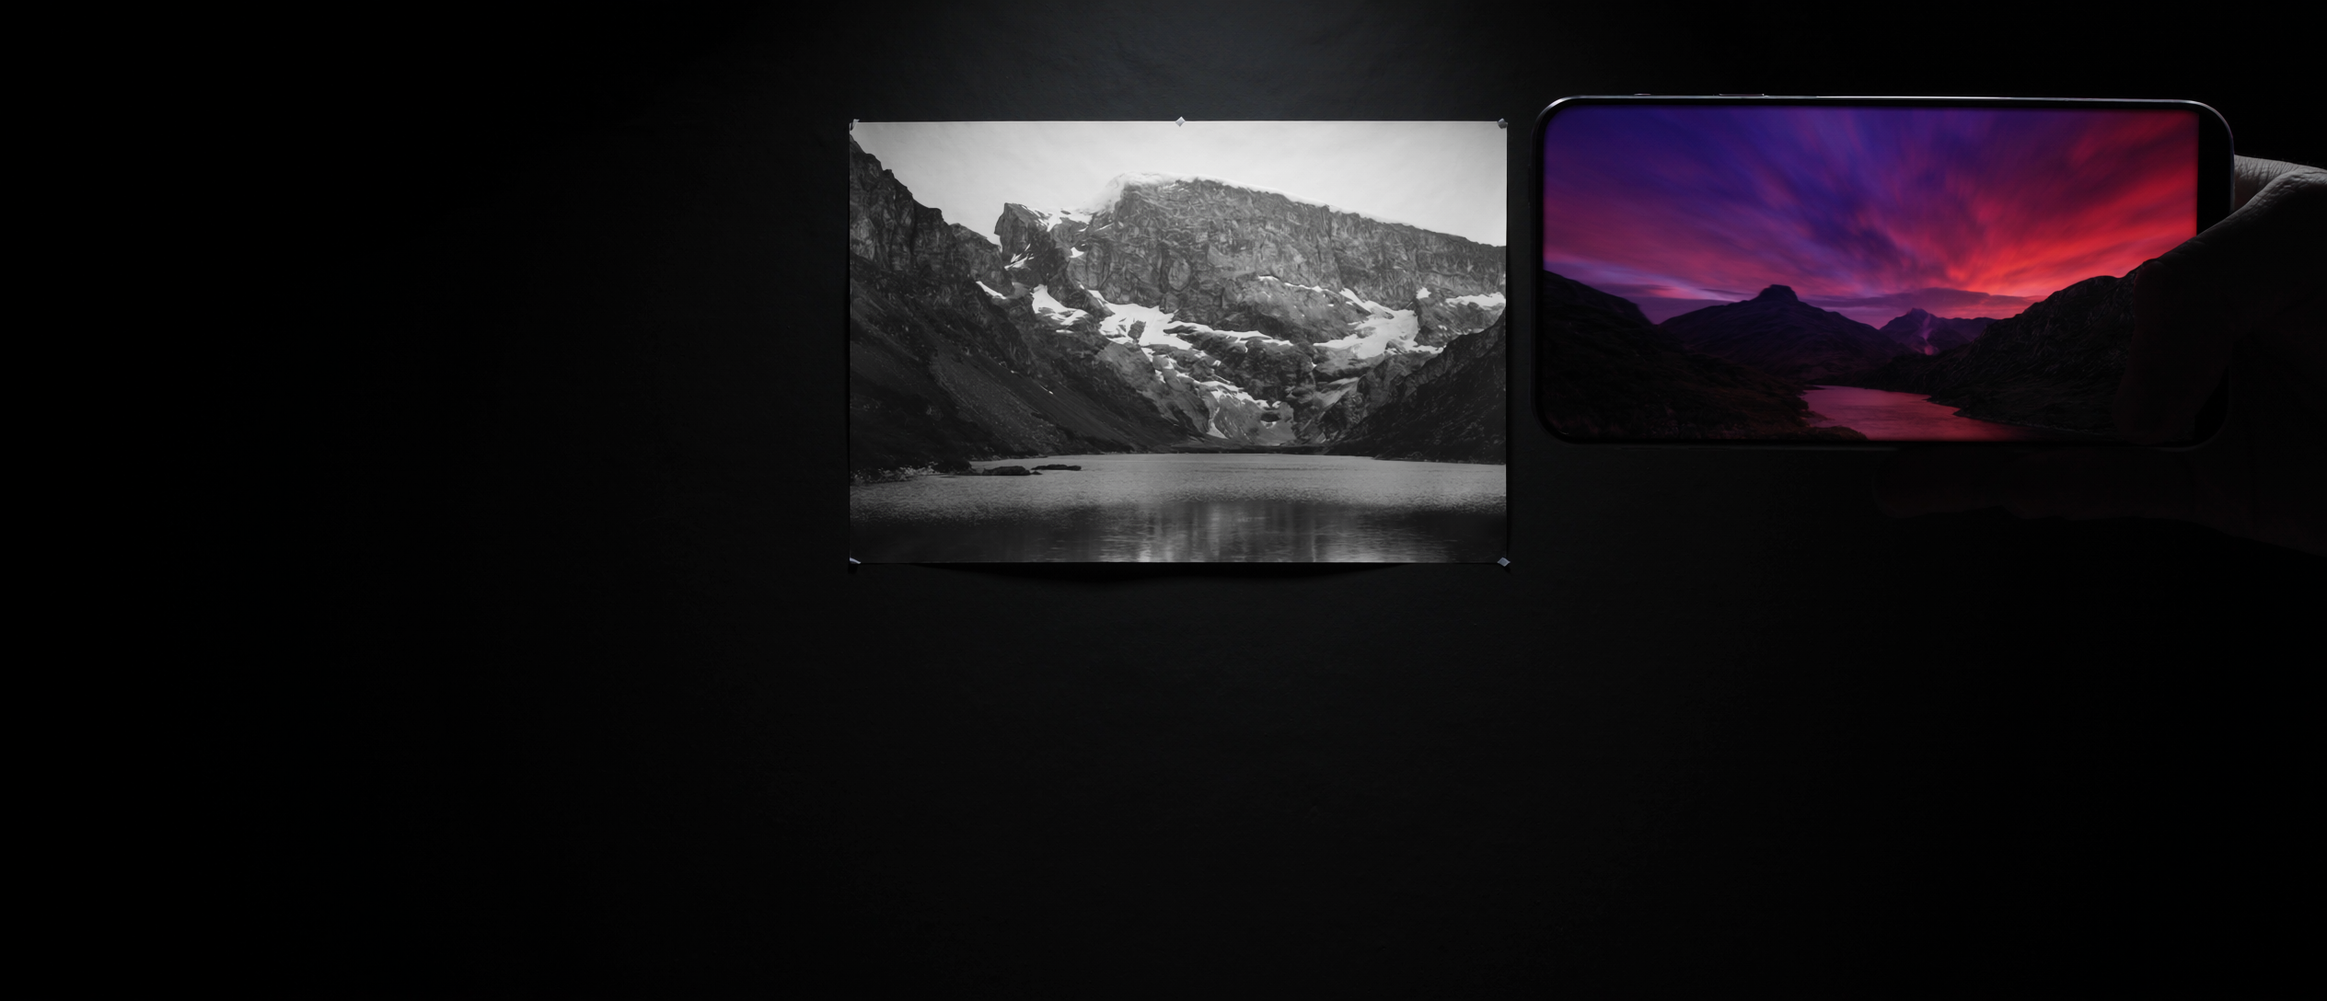
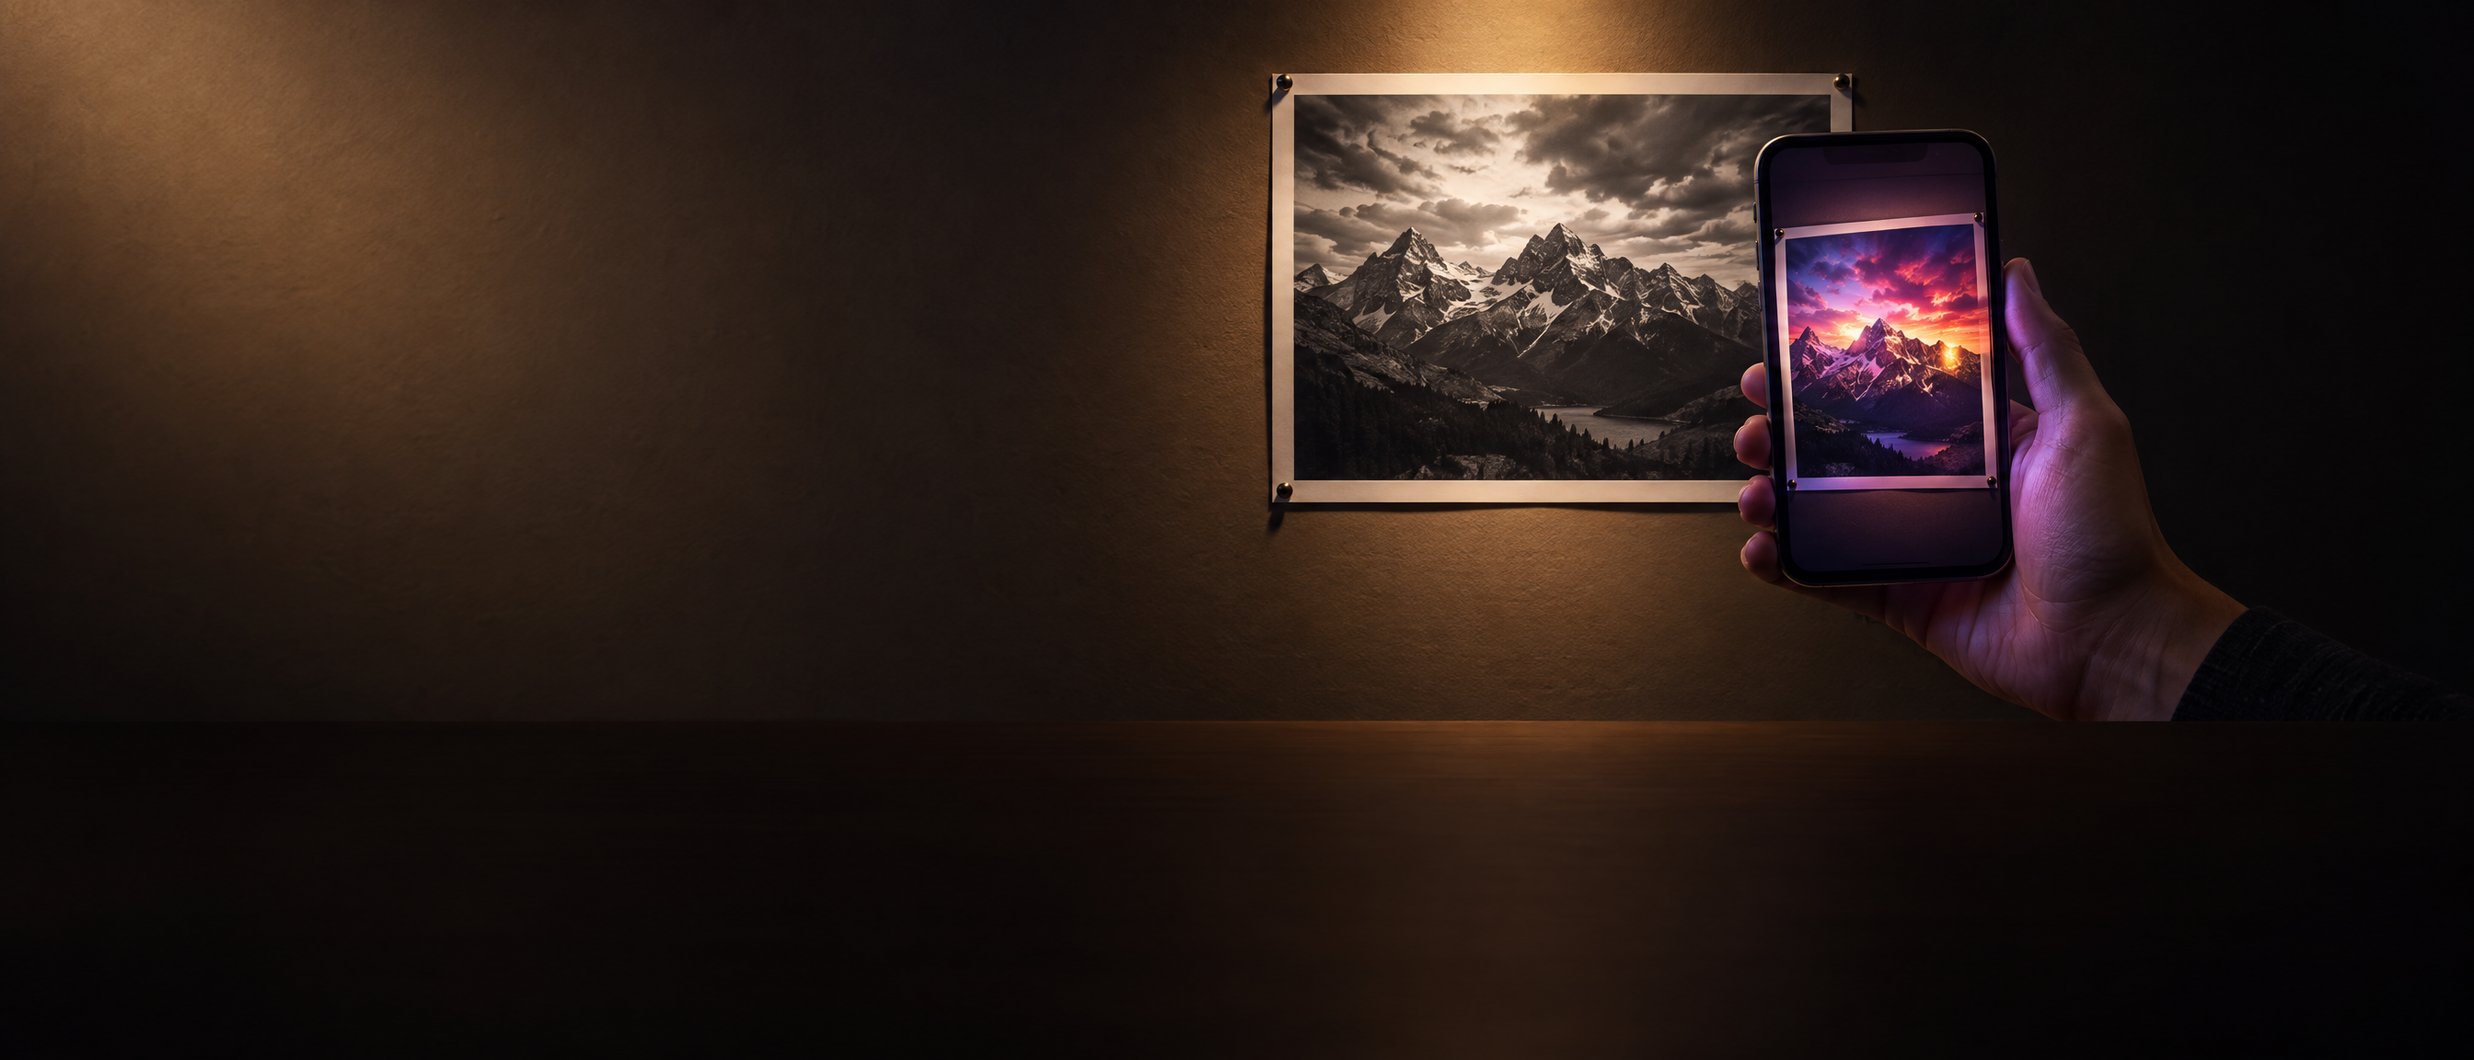
Reshoot full photography library with the mechanic as canon
- All six reference shots + three layout plates regenerated (GPT-Image 2.5, 2K),
  every brief written by the five-role crew: creative director, photographer,
  set dresser, lighting specialist, graphic designer
- Every print/screen pair now passes the mechanic gate: same image on both,
  screen alive and brighter, camera-mode read where phone faces a print
- Registers rebalanced for the happy brand: The Wall joins the everyday
  register (warm lamplight); campaign shots stay rich, never bleak
- CD QA: library rounds 1-2 (three targeted-edit fixes) + composite round
  (marketing type nudge, story plate reframed wider) - all approved
- Docs: five-role crew added to production-workflow, reshoot QA logs,
  design-system photography direction updated, guide captions + README

diff --git a/index.html b/index.html
@@ -219,8 +219,8 @@ section:first-of-type{border-top:0}
 .mail.auto .top svg{height:5cqw;width:auto}
 .mail.auto .rule{height:.7cqw;background:linear-gradient(90deg,var(--purple),var(--red))}
 
-.mail.photo .hd{aspect-ratio:600/420;background:#1C0824 url("photography/plate-m.png") center/cover;justify-content:flex-end;padding-bottom:6cqw}
-.mail.photo .hd::before{content:"";position:absolute;inset:0;background:linear-gradient(180deg,rgba(43,10,52,0) 36%,rgba(43,10,52,.86) 100%)}
+.mail.photo .hd{aspect-ratio:600/420;background:#1C0824 url("photography/plate-m.png") center/cover;justify-content:flex-end;padding-bottom:2.5cqw}
+.mail.photo .hd::before{content:"";position:absolute;inset:0;background:linear-gradient(180deg,rgba(43,10,52,0) 32%,rgba(43,10,52,.88) 100%)}
 .mail.photo .hd .eb,.mail.photo .hd h3,.mail.photo .hd .btn{position:relative;z-index:1}
 .mail.photo .hd h3{font-weight:700;font-size:6.33cqw;letter-spacing:.02em;line-height:1.18;margin-bottom:1.5cqw}
 .mail.photo .hd .btn{margin-top:2.8cqw}
@@ -670,14 +670,14 @@ footer{margin-top:40px;font-size:13px;color:var(--ink-3)}
   <p class="cap" style="margin-top:8px">The mechanic, first-person: the phone is a <b>live camera</b>, not a player — the painting’s gilded frame is visible <em>inside</em> the screen, and as the hand pans across the wall the viewfinder tracks with it, the living sea sliding through the frame while the real painting never moves. (Seedance 2.5 from a directed start frame.)</p></div>
 
   <div class="shoot">
-    <figure class="shot" style="--ar:1.78"><img src="photography/phideo-photo-01-the-moment.png" alt="A grandmother and granddaughter on a sofa; the girl holds a phone playing the living version of the black-and-white beach print on her grandmother's lap"><figcaption><b>01 · The Moment</b>Golden hour, 85mm. The print still, the screen alive — awe, not spectacle. Plum throw on the sofa arm.</figcaption></figure>
-    <figure class="shot" style="--ar:1.33"><img src="photography/phideo-photo-02-demonstrate.png" alt="Overhead view of hands holding a phone above faded prints on an oak table; the tagged print plays alive in colour on the screen"><figcaption><b>02 · Demonstrate</b>Top-down how-it-works: hands, prints, tag and playing screen in one frame. Plum mug, red pencil.</figcaption></figure>
-    <figure class="shot" style="--ar:.75"><img src="photography/phideo-photo-03-looking.png" alt="A man in a dim gallery lit only by his phone's violet glow, reacting with delight in front of black-and-white prints"><figcaption><b>03 · Looking</b>The screen is the only living light in the room — delight lit in violet.</figcaption></figure>
-    <figure class="shot" style="--ar:1.5"><img src="photography/phideo-photo-04-the-wall.png" alt="A hallway wall of framed photos at dusk; a phone held at arm's length shows one frame alive — a child in a red raincoat jumping in a puddle"><figcaption><b>04 · The Wall</b>Every frame is a door; one is open. Red arrives inside the living photo — the raincoat.</figcaption></figure>
-    <figure class="shot" style="--ar:.75"><img src="photography/phideo-photo-05-the-gift.png" alt="A woman moved to tears while unwrapping a framed wedding print tied with a plum ribbon; a phone beside it plays the same moment"><figcaption><b>05 · The Gift</b>A print is a gift again. Plum ribbon, red spool, morning linen, a caught reaction.</figcaption></figure>
-    <figure class="shot" style="--ar:1.78"><img src="photography/phideo-photo-06-two-worlds.png" alt="A black-and-white mountain print pinned to a dark studio wall; a hand holds a phone in front of it showing the same landscape at a violet-to-red sunset"><figcaption><b>06 · Two Worlds</b>Campaign hero: the still world and the living one, held in one hand. The sky runs the brand gradient.</figcaption></figure>
+    <figure class="shot" style="--ar:1.78"><img src="photography/phideo-photo-01-the-moment.png" alt="A grandmother and granddaughter on a golden-lit sofa; the girl holds a phone over the black-and-white beach print on her grandmother's lap, and the same beach is alive in colour on the screen"><figcaption><b>01 · The Moment</b>Golden hour, 50mm. The print still on the lap; the same beach alive in colour on the screen — awe, not spectacle. Plum throw on the sofa arm.</figcaption></figure>
+    <figure class="shot" style="--ar:1.33"><img src="photography/phideo-photo-02-demonstrate.png" alt="Overhead view of hands holding a phone in camera mode above faded prints on an oak table; the print under the phone plays alive in colour on the screen"><figcaption><b>02 · Demonstrate</b>Top-down how-it-works: the faded sprinkler print below, the same scene alive and saturated inside the screen. Plum mug, red pencil.</figcaption></figure>
+    <figure class="shot" style="--ar:.75"><img src="photography/phideo-photo-03-looking.png" alt="A man in a warm gallery breaking into a delighted grin, his face lit by the violet-rose glow of his phone in front of black-and-white prints"><figcaption><b>03 · Looking</b>The screen is the liveliest light in the room — delight lit in violet, the gallery warm around it.</figcaption></figure>
+    <figure class="shot" style="--ar:1.5"><img src="photography/phideo-photo-04-the-wall.png" alt="A warm hallway wall of framed photos; a phone held directly in front of one frame shows that photo alive inside the screen — a child in a red raincoat mid-jump over a puddle, the frame's edges visible around the phone"><figcaption><b>04 · The Wall</b>Every frame is a door; one is open. The phone sits over its frame like a live camera — red arrives inside the living photo.</figcaption></figure>
+    <figure class="shot" style="--ar:.75"><img src="photography/phideo-photo-05-the-gift.png" alt="A woman moved to joyful tears over an unwrapped framed wedding print tied with a plum ribbon; a companion's phone in camera mode shows the same wedding photo alive"><figcaption><b>05 · The Gift</b>A print is a gift again — and the phone proves it's alive. Plum ribbon, red spool, morning linen, a caught reaction.</figcaption></figure>
+    <figure class="shot" style="--ar:1.78"><img src="photography/phideo-photo-06-two-worlds.png" alt="A black-and-white mountain print pinned to a bright studio wall; a hand holds a phone in front of it showing the same print, edges visible inside the screen, alive under a violet-to-red sunset"><figcaption><b>06 · Two Worlds</b>Campaign hero: the still world and the living one, held in one hand — the print's own edges visible inside the screen. The sky runs the brand gradient.</figcaption></figure>
   </div>
-  <p class="cap" style="margin-top:12px">Shot on Higgsfield Soul 2.0 / Soul Cinema, 2K · files in <code>photography/</code>. Warm shots (01, 02, 05) are the everyday register; low-light shots (03, 04, 06) are the campaign register — the darker the scene, the more the screen carries the colour.</p>
+  <p class="cap" style="margin-top:12px">Reshot 2026-09-17 (GPT-Image 2.5, 2K) with the mechanic as canon · files in <code>photography/</code>. Every brief is written by five roles — creative director, photographer, set dresser, lighting specialist, graphic designer — and every print/screen pair passes the mechanic gate: same image on both, screen alive and brighter. Warm shots (01, 02, 04, 05) are the everyday register; 03 and 06 are the campaign register — richer and more dramatic, but never dull.</p>
 
   <h3 style="margin-top:34px">Photos under the brand — four rules</h3>
   <div class="grid g2" style="margin-top:14px">
@@ -694,7 +694,7 @@ footer{margin-top:40px;font-size:13px;color:var(--ink-3)}
       <div class="ly"><div class="tag">4 · lobe<small>floats top-left</small></div><div class="fr"><div class="lobe-demo">logo</div></div></div>
       <div class="ly"><div class="tag">3 · type + CTA<small>the fixed footprint</small></div><div class="fr"><div class="type-demo"><span class="l1"></span><span class="l2"></span><span class="l3"></span><span class="btn"></span></div></div></div>
       <div class="ly"><div class="tag">2 · scrim<small>legibility, not burial</small></div><div class="fr"><div class="scrim-demo"></div></div></div>
-      <div class="ly"><div class="tag">1 · photograph<small>full bleed · shot wider</small></div><div class="fr photo-ly"><div class="crop"></div><div class="poi" style="left:58%;top:34%"></div></div></div>
+      <div class="ly"><div class="tag">1 · photograph<small>full bleed · shot wider</small></div><div class="fr photo-ly"><div class="crop"></div><div class="poi" style="left:67%;top:38%"></div></div></div>
     </div>
     <div class="cap" style="margin:0">The stack, top layer first. Only layer 3 has a fixed footprint (W1: bottom ~45%, centre-aligned); everything else adapts to the photograph. On layer 1, the ring marks the <b>point of interest</b> and the dashed line is the crop the layout will actually use — the photographer <b>shoots a little wider than instinct</b>, so the subject keeps its clearance when the frame is reframed across placements. The phone screen stays the brightest point, whole, and clear of the type footprint. Nothing critical within 8% of any edge.</div>
   </div>

diff --git a/production-workflow.md b/production-workflow.md
@@ -70,9 +70,25 @@ with the scrim" — the scrim is for legibility, not for burying detail.
 
 **The mechanic is canon** (design-system §5, "The mechanic"): whenever a print and a
 screen share the frame, the screen shows the *same* image as the print — a slightly
-tighter crop is allowed (the phone is a zoomed-in window) — visibly alive and brighter
+tighter crop is allowed (the phone is a zoomed-in window), and the print's frame visible
+*inside* the screen is the strongest live-camera read — visibly alive and brighter
 than the frozen print beside it. The life stays inside the print's frame. Never unrelated
 footage, never app chrome, never a screen that contradicts the print it faces.
+
+**The crew (every shot brief is written by five roles, in this order):**
+
+- **Creative director** — the one-sentence message the frame must say, and the register.
+- **Photographer** — POV, lens, camera height, composition; point of interest placed per
+  the wireframe; always framed a little wider than instinct.
+- **Set dresser** — environment and props; the brand accents planted *in scene* (plum
+  ribbon/mug/throw, red pencil/raincoat/thread) — never colour in post.
+- **Lighting specialist** — the light plan: source, temperature, falloff; the phone screen
+  is always the single brightest, most saturated point; quiet zones fall away in *light*
+  (shadow, out-of-focus foreground), not in retouching.
+- **Graphic designer** — what the screen shows (the same image as the print, alive, per
+  the mechanic) and, on layout plates, the copy footprints the composition must keep quiet.
+
+One prompt/brief carries all five voices; a brief missing a role's answer isn't ready to shoot.
 
 ### 4 · Creative Director — QA gates
 
@@ -138,6 +154,37 @@ Final plates live in `photography/plate-{m,s,w}.png`; composites in the style gu
 - **CD round 2:** web SHIP · story SHIP · marketing FIX (screen content).
 - **CD round 3:** marketing SHIP — saturation measured: screen 0.55 vs faces 0.45. One
   non-blocking note on file: +⅓ stop on the screen if the plate is ever touched again.
+
+## QA log — full library reshoot (2026-09-17, all nine shipped)
+
+Once the mechanic became canon (see the demo-film log below), the entire photography
+library — six reference shots + three layout plates — was reshot on GPT-Image 2.5 (2K),
+every brief written by the five-role crew, every image gated on the mechanic.
+
+- **Batch 1 (9/9 generated):** photographer's cull passed all nine — no text artifacts
+  (the light-and-space prompt language from the earlier lesson held), mechanic read strong
+  across the set, and the camera-mode read (print's frame visible inside the screen)
+  landed on The Wall, Two Worlds and both studio plates.
+- **CD round 1:** six of nine SHIP. Three FIX — The Wall: phone floated beside the frame
+  it was "viewing" instead of overlapping it (camera-geometry break); The Gift: the screen
+  showed a *different* wedding moment than the print (mechanic violation, automatic fix);
+  Plate M: heads inside the 8% top-edge clearance.
+- **Fix pass:** all three repaired as targeted image-to-image edits on the approved takes
+  (reposition the phone over its frame; replace the screen with a tighter living crop of
+  the print's own scene; reframe wider for headroom) — cheaper and more consistent than
+  reshooting, since the rest of each frame was already approved.
+- **CD round 2:** nine of nine SHIP — occlusion geometry, screen-to-print match and
+  measured 8.2%/9.4% crown clearance all verified. Lesson: the mechanic gate catches
+  subtle breaks (a matching-but-different moment on the screen) that a general "on brand"
+  review sails past; keep it as its own gate.
+- **Composite round (the workflow's real gate — never the photo alone):** web hero SHIP;
+  marketing FIX — the 600×420 crop pushed the headline off the scrim onto the cardigan →
+  type block lowered (padding 6→2.5cqw) and the scrim start raised (36→32%); story FIX —
+  the lobe covered the print's top-left corner and the crop had no slack (phone already on
+  the right edge) → the *plate* was reframed wider via a targeted edit (cluster smaller,
+  right of centre, 12% margins) rather than fighting the crop. Bonus: the reframe put the
+  phone overlapping its print — a stronger live-camera read. Final: all three composites
+  SHIP. Lesson: when a crop has no slack, fix the plate, not the layout.
 
 ## QA log — mechanic demo film (2026-09-17)
 

diff --git a/README.md b/README.md
@@ -21,8 +21,8 @@ Developed by **Lunchbox Agency**, 15 September 2026, from every brand source in 
 | `logo/phideo-logo-{purple,red,black,white}-spec.svg` | The four single-colour variants, generated from the spec file — ready to replace the hub set. |
 | `logo/phideo-logo-*-spec.png` | 1024×1024 transparent PNG exports of all five variants (rendered with Chrome, so the ® mask is correct). |
 | [`logo/phideo-logo-color-hub-original.svg`](logo/phideo-logo-color-hub-original.svg) | The same file as it sits on the asset hub today (`#722C8F` / `#EC1B25`) — kept for comparison, see discrepancy #1. |
-| `photography/phideo-photo-0{1..6}-*.png` | The reference photoshoot (Higgsfield Soul 2.0 / Soul Cinema, 2K): six directed shots covering the everyday and campaign registers — see the Photography section of the guide for the shot notes and the photo-treatment rules. |
-| `photography/plate-{m,s,w}.png` | Layout plates shot **to the wireframe** (subject top ~55%, type-safe negative space bottom ~45%) and passed through CD QA — used by the photo-hero demo and the two photo-hero email templates. |
+| `photography/phideo-photo-0{1..6}-*.png` | The reference photoshoot (reshot 2026-09-17 on GPT-Image 2.5, 2K, with the mechanic as canon): six directed shots covering the everyday and campaign registers, each brief written by the five-role crew (CD, photographer, set dresser, lighting specialist, graphic designer) — see the Photography section of the guide for the shot notes and the photo-treatment rules. |
+| `photography/plate-{m,s,w}.png` | Layout plates shot **to the wireframe** (point of interest in the upper half, quiet scrimmable copy footprint below) and passed through CD QA — used by the photo-hero demo, the wireframe diagram and the two photo-hero email templates. |
 | `photography/phideo-mechanic-demo.mp4` | First-person film of **the mechanic** (design-system §5): a still painting in a museum, alive inside the phone — the canonical reference for how a phideo behaves. Seedance 2.5 from a directed GPT-Image start frame. |
 | [`production-workflow.md`](production-workflow.md) | The photo-led production pipeline: goal → wireframe → shoot → CD QA, with role briefs, the W1 wireframe, the worked plate briefs and the QA log. Nothing photo-led ships without it. |
 

diff --git a/design-system.md b/design-system.md
@@ -259,14 +259,24 @@ staring at nothing, AI faces with obvious artefacts, purple/red duotones over fa
 
 ### Photography direction (added 2026-09-17)
 
-Reference shoot in `photography/` (six shots, Higgsfield Soul 2.0 / Soul Cinema, 2K).
-Every shot is directed like a sentence — one message, one composition, one light, one honest
-expression — and brand colour enters as **objects and light inside the scene** (plum ribbon,
-red pencil, plum mug, red raincoat, violet screen glow), never as a filter in post.
+Reference shoot in `photography/` — six shots plus three layout plates, **reshot in full on
+2026-09-17 (GPT-Image 2.5, 2K)** after the mechanic became canon. Every image is now
+mechanically true: wherever a print and a screen share the frame, the screen shows the *same*
+photograph alive (tighter crop allowed; the print's frame visible inside the screen is the
+strongest live-camera read), brighter and more saturated, while the real print reads frozen.
 
-Two registers: **everyday** (warm, window-lit: The Moment, Demonstrate, The Gift) and
-**campaign** (low-light, the screen carries the colour: Looking, The Wall, Two Worlds).
-The darker the scene, the more the screen becomes the light source.
+Every brief is written by five roles before a frame is shot: the **creative director** sets
+the one-sentence message, the **photographer** the composition and lens, the **set dresser**
+the environment and in-scene brand accents (plum ribbon, red pencil, plum mug, plum throw,
+red raincoat), the **lighting specialist** the light plan — the screen always the brightest,
+most saturated point — and the **graphic designer** the on-screen content and, on plates,
+the quiet copy footprints. Brand colour enters as **objects and light inside the scene**,
+never as a filter in post.
+
+Two registers: **everyday** (warm, window- or lamp-lit, joyful: The Moment, Demonstrate,
+The Wall, The Gift) and **campaign** (dramatic, the screen carries the colour: Looking,
+Two Worlds). Even the campaign register stays rich and luminous — dark ≠ dull; the emotion
+is wonder, never bleak.
 
 Rules for photos in layouts:
 
